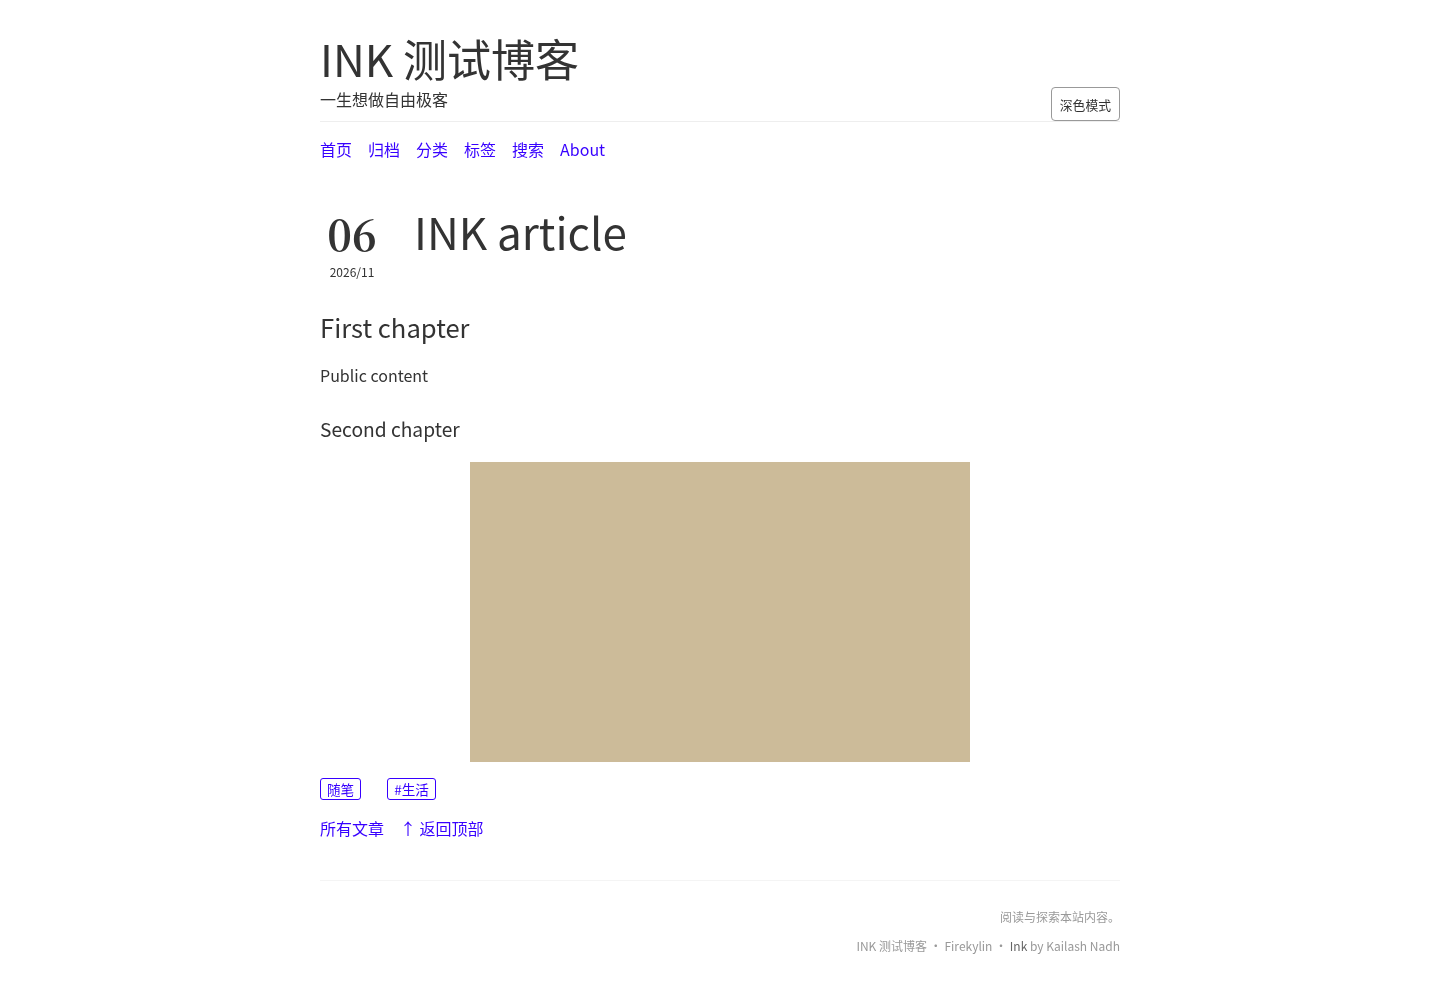
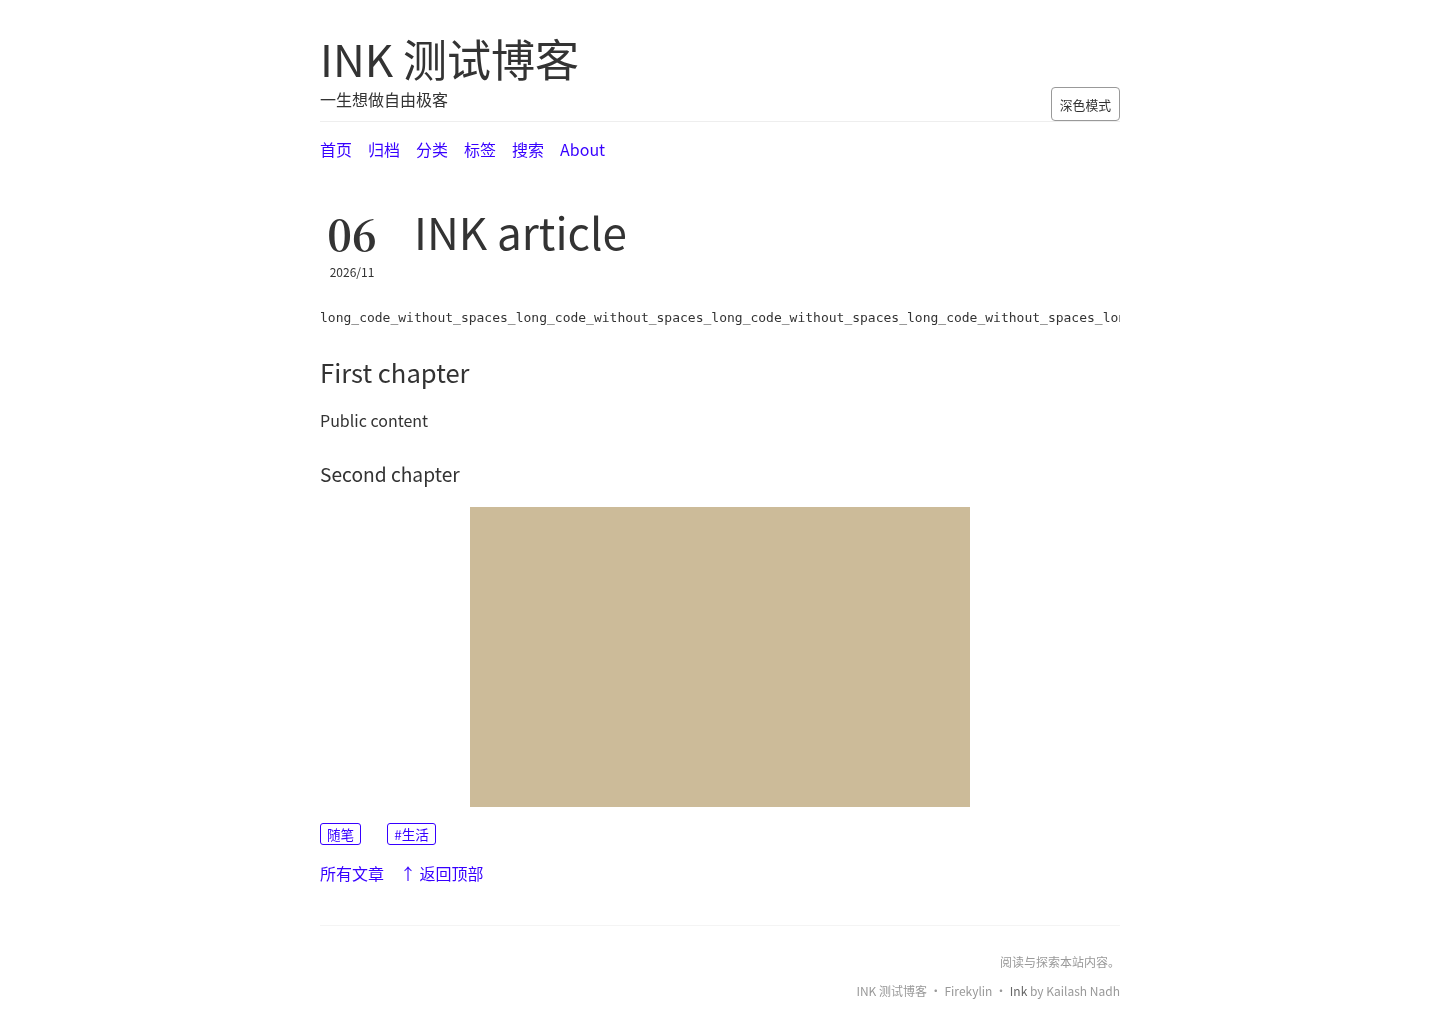
fix: render native attachment media and contain long code

diff --git a/test/ink.test.js b/test/ink.test.js
@@ -4,3 +4,5 @@ const {render,pages}=require('./port-fixture');
 for(const page of pages)test('Ink '+page+' renders populated and empty Widgets',async()=>{for(const empty of [false,true]){const html=await render('ink',page,{empty});assert.match(html,/Ink/);assert(!html.includes('undefined'));}});
 test('Ink escapes titles, rejects active cover URLs, preserves protected body',async()=>{const html=await render('ink','index',{hostile:true,config:{profileName:'<script>alert(1)</script>',backgroundImage:'javascript:alert(1)'}});assert(!html.includes('<img src=x onerror'));assert.match(html,/&lt;img/);assert(!html.includes('src="javascript:'));assert.match(await render('ink','post',{protected:true}),/protectPassword/);});
 test('Ink delegates comments and keeps search filters in pagination',async()=>{assert(!(await render('ink','post',{comments:false})).includes('id="comments"'));const html=await render('ink','search',{request:'/search.html?keyword=a%26b'});assert.match(html,/keyword=a%26b&amp;page=2/);});
+
+test('ink renders attachment media and rejects active file URLs',async()=>{const {context}=require('./port-fixture');const {Eta}=require('eta');const path=require('node:path');for(const [mime,element] of [['image/png','img'],['audio/mpeg','audio'],['video/mp4','video'],['application/pdf',null]]){const ctx=context('ink','attachment');const archive=await ctx.widget('Widget_Archive');archive.stack[0].options={attachment:{mime,url:'/uploads/file',name:'Download file'}};const html=await new Eta({views:path.join(__dirname,'../packages/ink'),varName:'firekylin'}).renderAsync('attachment',ctx);assert.match(html,/href="\/uploads\/file" download/);if(element)assert(html.includes('<'+element+' '));}const ctx=context('ink','attachment');(await ctx.widget('Widget_Archive')).stack[0].options={attachment:{mime:'image/png',url:'javascript:alert(1)'}};const html=await new Eta({views:path.join(__dirname,'../packages/ink'),varName:'firekylin'}).renderAsync('attachment',ctx);assert(!html.includes('javascript:'));});

diff --git a/packages/ink/res/css/theme.css b/packages/ink/res/css/theme.css
@@ -560,3 +560,6 @@ html.dark .highlight {
 body{margin:0;overflow-wrap:anywhere}img{height:auto}iframe,video{max-width:100%}.matter{min-width:0}.header nav ul{display:flex;flex-wrap:wrap;gap:.5rem 1rem}.header nav li{margin:0}.prose pre,.prose table{overflow:auto;max-width:100%}.post-actions,.tags{display:flex;flex-wrap:wrap;gap:1rem;margin:1rem 0}.skip{position:absolute;top:-100px}.skip:focus{top:0}.pagination{margin:2rem 0}input,button{font:inherit;max-width:100%;box-sizing:border-box}.mode-toggle{background:none;color:inherit;border:1px solid #999;cursor:pointer;border-radius:4px;font-size:.8rem;padding:.2rem .5rem}.mode-toggle[hidden]{display:none}.post-header{margin-top:2rem}.header .avatar img{object-fit:cover}:focus-visible{outline:2px solid #3700ff;outline-offset:3px}@media(max-width:400px){.post-header .meta .date{width:48px;margin-right:18px}}
 /* Keep two-digit days on one line with system serif fallback metrics. */
 .post-header .meta .date .day{white-space:nowrap;line-height:1;font-size:2.6em;margin-bottom:.2em}
+
+/* Native code and attachment containment. */
+.prose pre{max-width:100%;overflow-x:auto}.attachment-media img,.attachment-media audio,.attachment-media video{max-width:100%}
